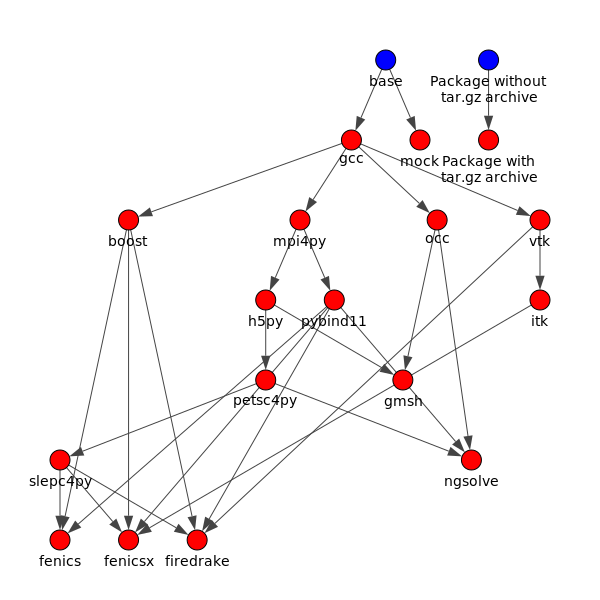
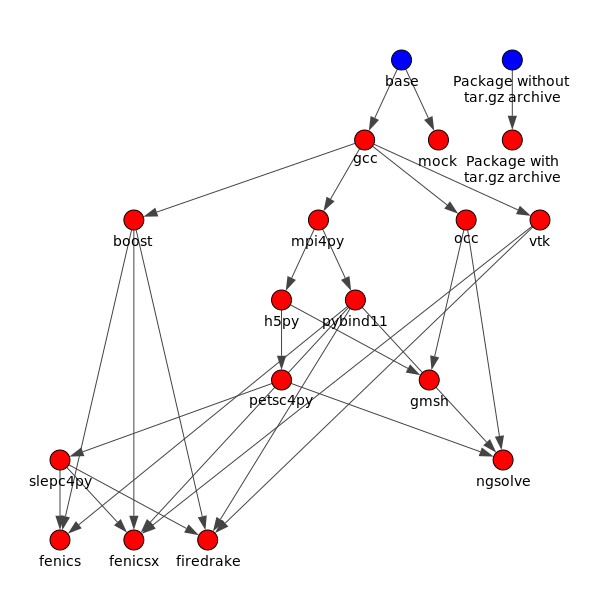
Remove itk build and install script

diff --git a/base/bin/enable_widgets.py b/base/bin/enable_widgets.py
@@ -21,8 +21,8 @@ except ImportError:
 else:
     google.colab.output.enable_custom_widget_manager()
 """
-    assert package_name in ("itkwidgets", "pythreejs", "pyvista", "webgui_jupyter_widgets")
-    if package_name in ("itkwidgets", "pythreejs", "pyvista"):
+    assert package_name in ("pythreejs", "pyvista", "webgui_jupyter_widgets")
+    if package_name in ("pythreejs", "pyvista"):
         with open(package_init_file, "r") as f:
             package_init_file_content = f.read().strip("\n")
         with open(package_init_file, "w") as f:

diff --git a/scripts/graph.py b/scripts/graph.py
@@ -11,12 +11,11 @@ dependencies = {
     "base": [],
     "boost": ["gcc"],
     "fenics": ["boost", "pybind11", "slepc4py"],
-    "fenicsx": ["boost", "pybind11", "slepc4py", "itk"],
+    "fenicsx": ["boost", "pybind11", "slepc4py", "vtk"],
     "firedrake": ["boost", "pybind11", "slepc4py", "vtk"],
     "gcc": ["base"],
     "gmsh": ["h5py", "occ"],
     "h5py": ["mpi4py"],
-    "itk": ["vtk"],
     "mock": ["base"],
     "mpi4py": ["gcc"],
     "ngsolve": ["occ", "pybind11", "petsc4py"],
